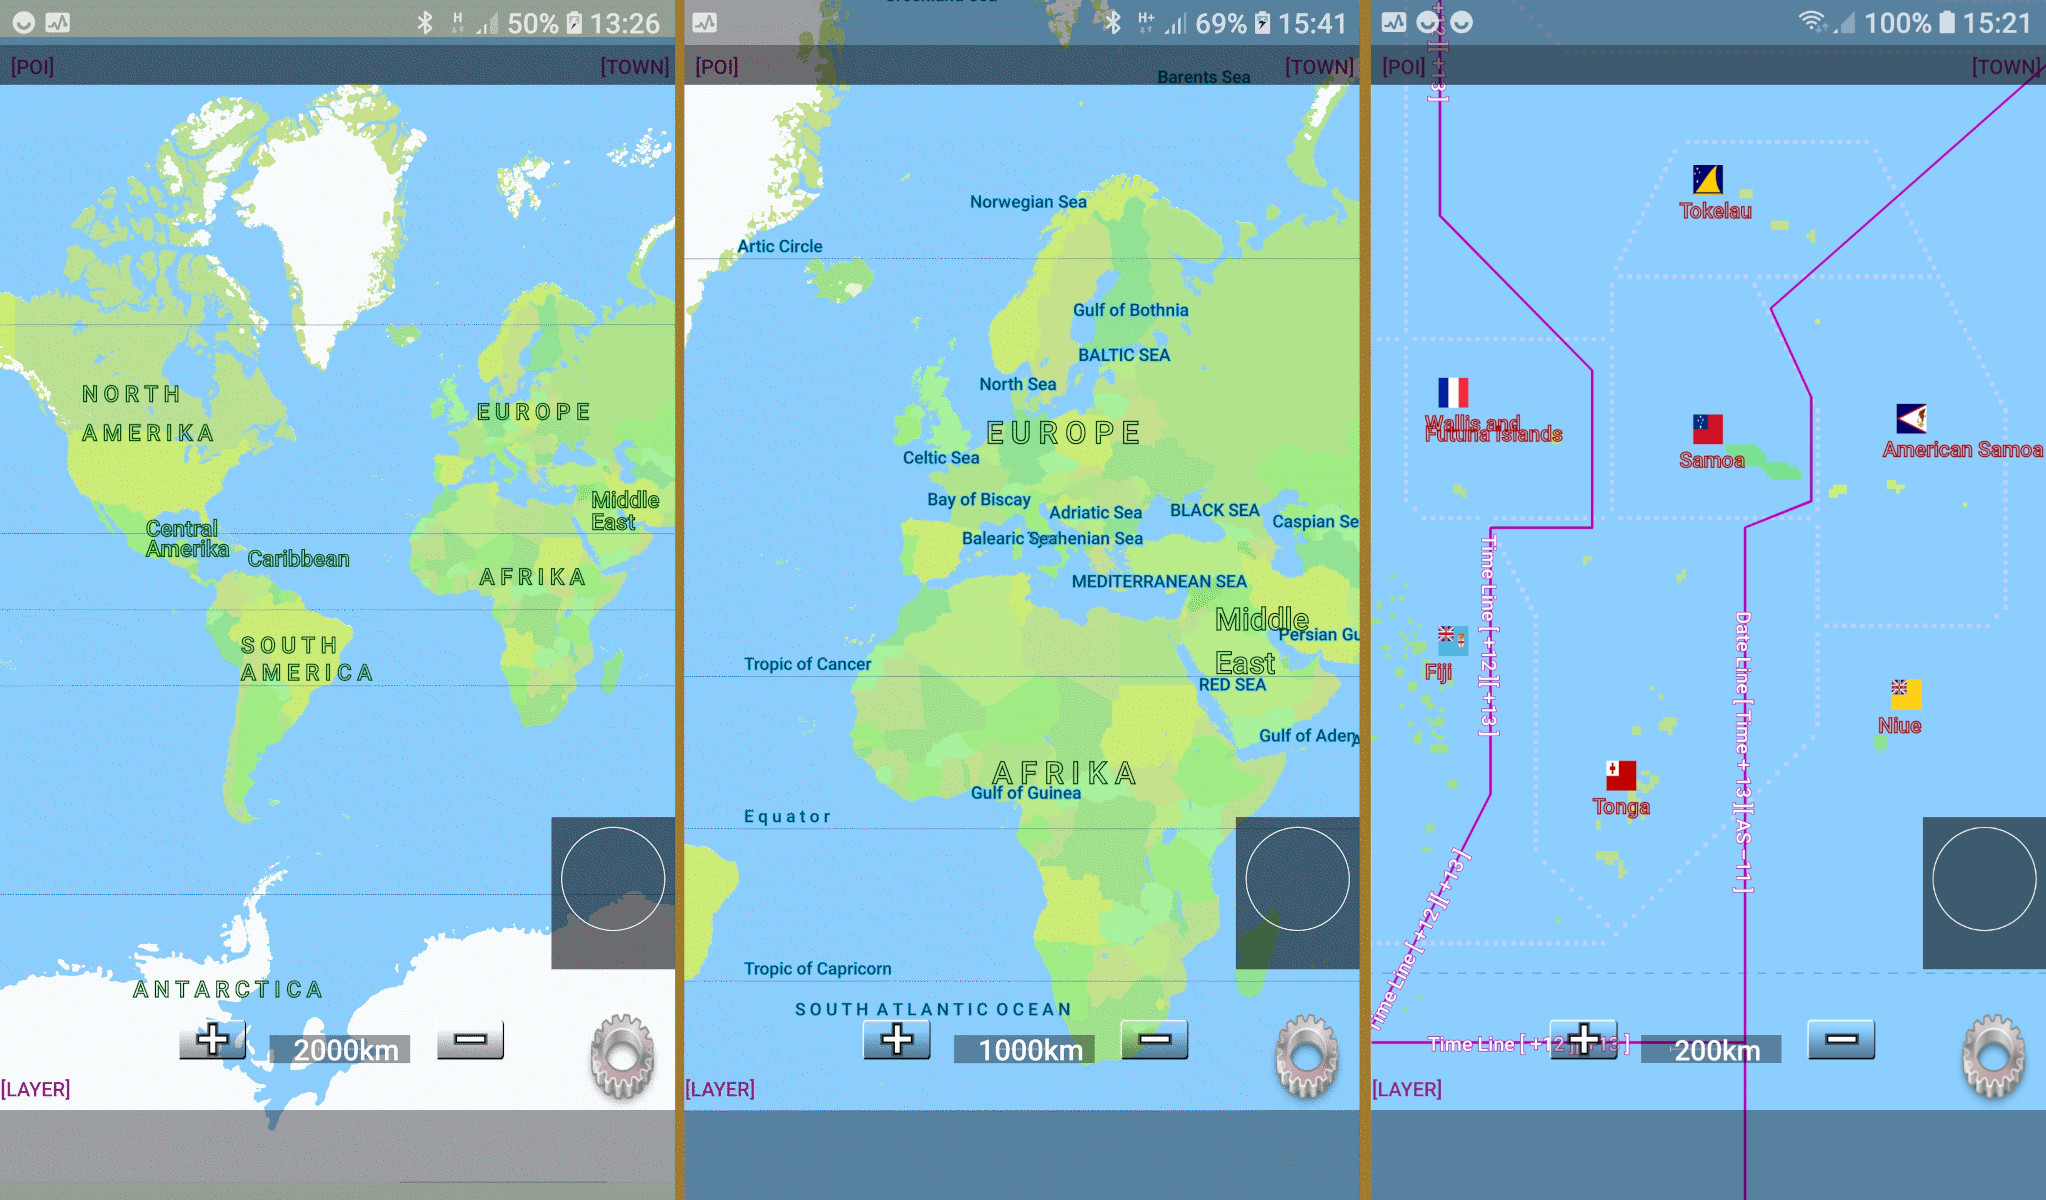
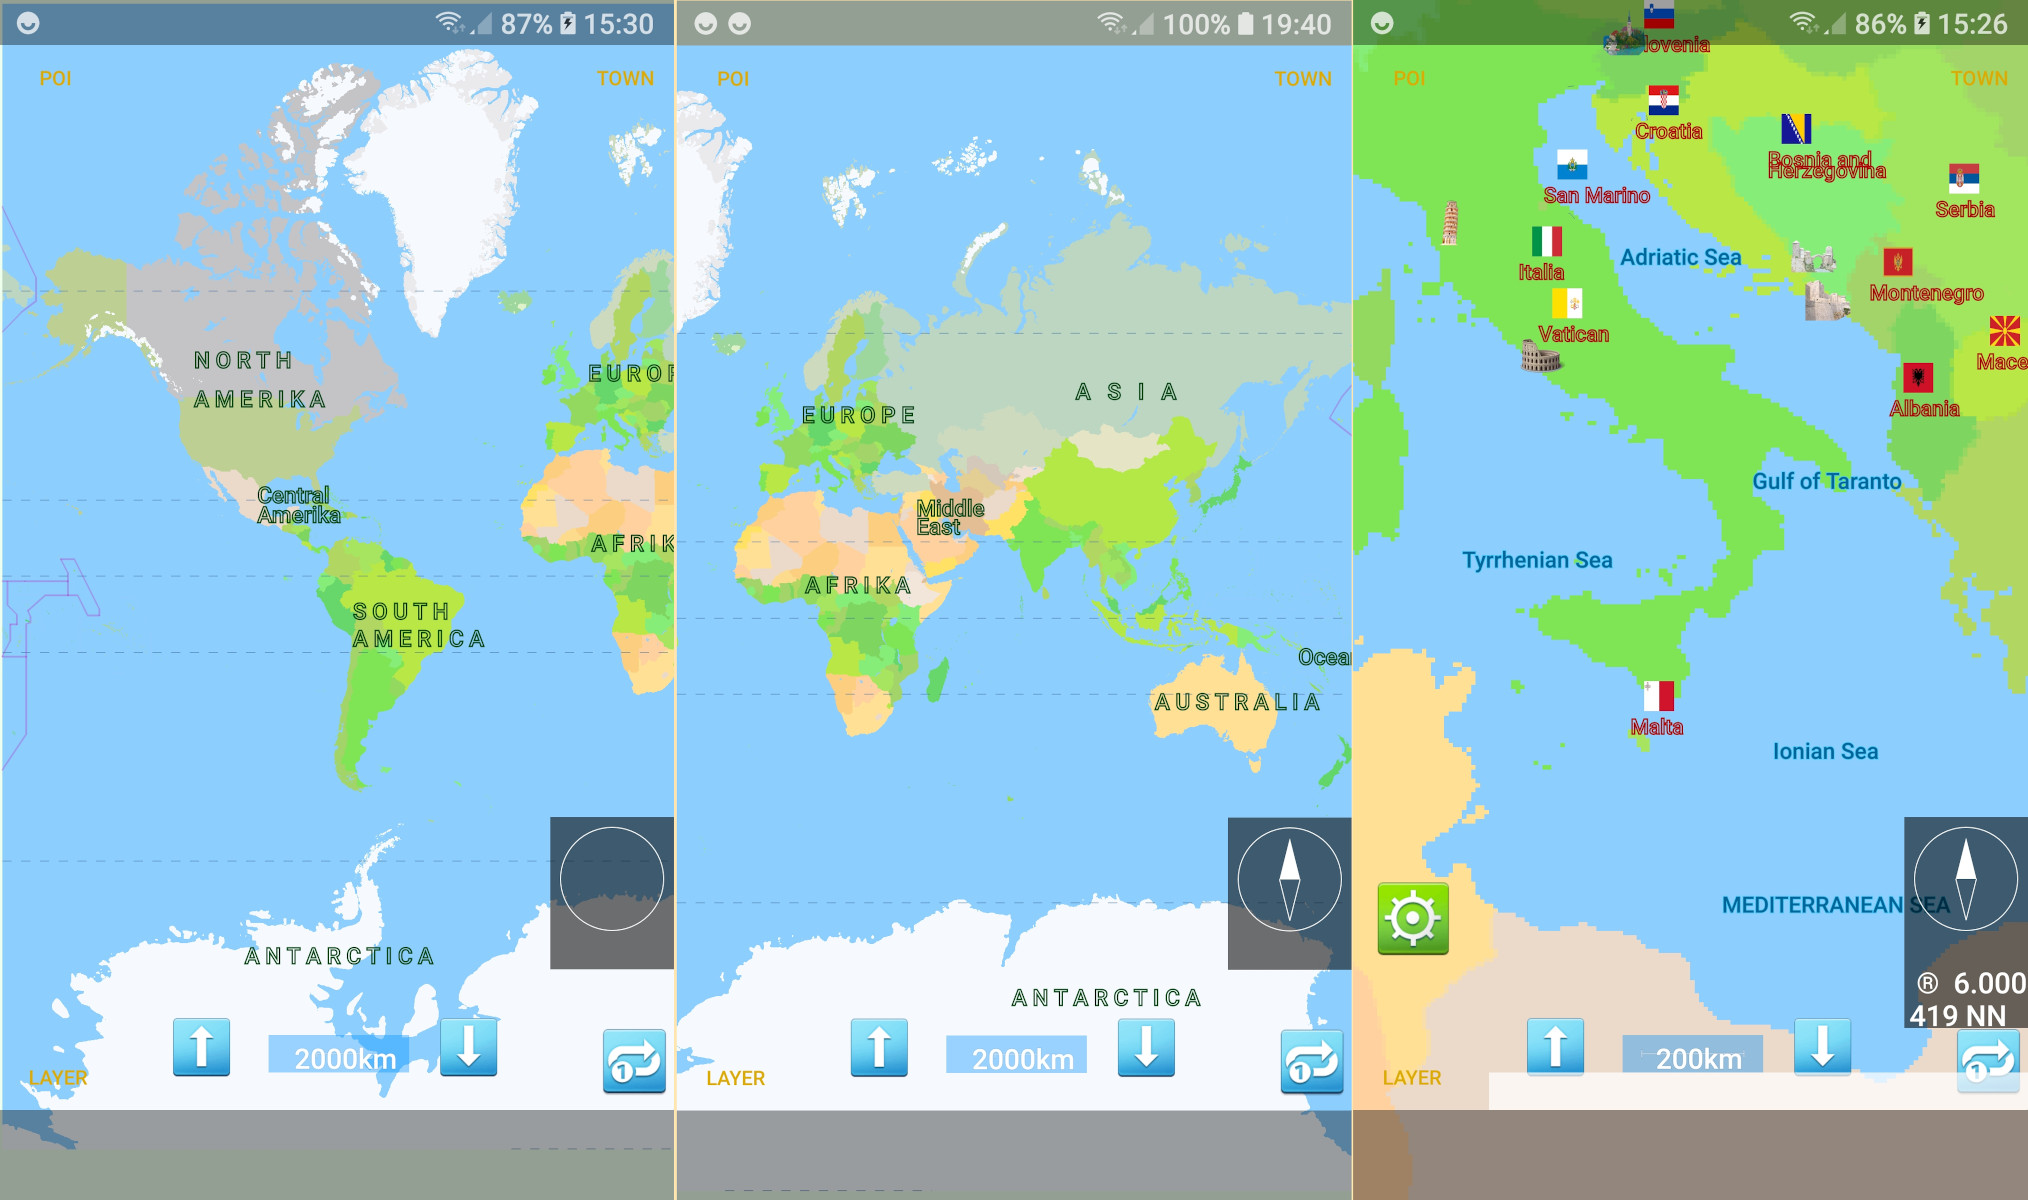
worldimage with more coulors

diff --git a/README.md b/README.md
@@ -10,7 +10,7 @@
 * *D - Center map to the cursor*  
 * *E - Layout street`_`day and street`_`night*  
 * *F - Layout snow*  
-### Installation:
+### Installation 0.5.4:
 Path Phone: Android/data/org.navitprojekt.navit/files/navit.xml also all other *.xml and create the three folder:  - maske - poi - txt  
 The empty folders can be filled with Icons are in folder - src - in Github enclosed or replaced with your own icons.  
 You can in the device click bottom right on compass and download a Map.  
@@ -69,7 +69,7 @@ any **OSD Button "[POI]"**
 
 open the **GUI Menu "POI_Icons"**
 
-![Image of GUI Menü "POI_Icons"](https://github.com/hermann2/Navit-xml-Enhancement/blob/master/src/screencapture/GUI Auswahl.jpg)
+![Image of GUI Menü "POI_Icons"](https://github.com/hermann2/Navit-xml-Enhancement/blob/master/src/screencapture/Navit_GUI_POI.jpg)
 
 and allows the POI compilation or all POIs to be activated / deactivated.
 
@@ -120,7 +120,7 @@ under (map.xml or Navit.xml)
 	</mapset>
 
 #### POI OWN.txt
-![Image of GUI Menü "POI-Auswahl"](https://github.com/hermann2/Navit-xml-Enhancement/blob/master/src/screencapture/GUI Auswahl.jpg)
+
 In the GUI menu the POI files and required POI levels are switched simultaneously. The file with the coordinates (*data="$NAVIT_USER_DATADIR/txt/pylon.csv"*) is stored for the area Austria in the folder *txt*  
 Any icon in a folder (*$NAVIT_USER_DATADIR/poi/pylon*) - to find under *src/poi*  
 A circuit in the *OSD* or as below in the *GUI*
@@ -135,7 +135,7 @@ The setting - order delta="2" - allows better finding.
 
 ### C - At high zoom level, show a world map or /*:
 
-![](https://github.com/hermann2/Navit-xml-Enhancement/blob/master/src/screencapture/Worldimage.jpg)
+![Worldimage](https://github.com/hermann2/Navit-xml-Enhancement/blob/master/src/screencapture/worldimage.jpg)
 
 Required is an image (map) of maximum dimension 4096x4096 (*src/maske/worldimage.png*).  
 The folder "src / poi`_`my / worldimage_EBENE.xcf" contains the world map for free design.  
